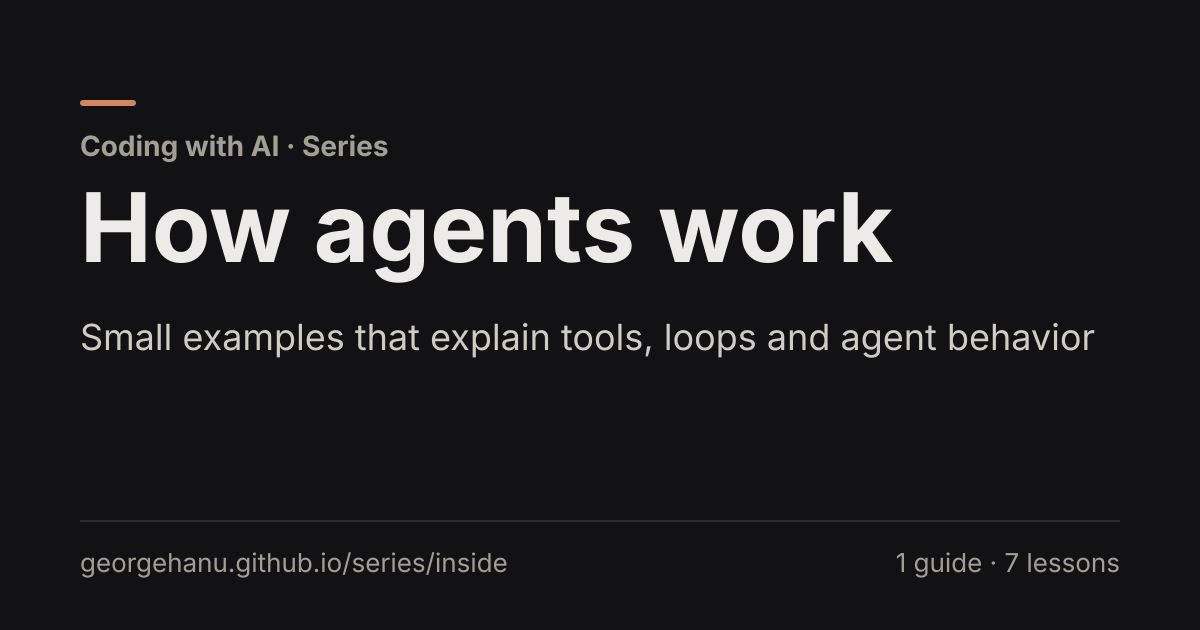
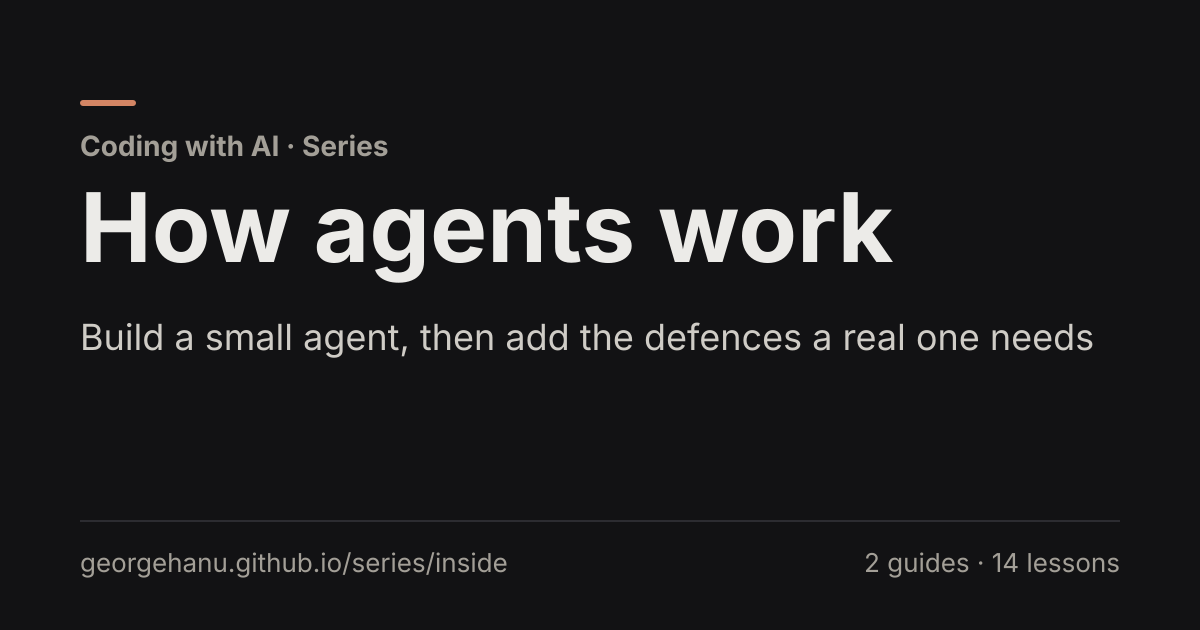
Add Harden Your Agent as Part 2 of How agents work

Changed region(s): [[0.0617, 0.5127, 0.925, 0.573], [0.7092, 0.8746, 0.8633, 0.9349]]

diff --git a/lessons/index.html b/lessons/index.html
@@ -4,13 +4,13 @@
 <meta charset="utf-8">
 <meta name="viewport" content="width=device-width, initial-scale=1">
 <title>All lessons · Coding with AI</title>
-<meta name="description" content="Every lesson from George Hanu's free guides on coding with AI, in one list: 20 lessons from 3 guides. Search, or filter by series and topic.">
+<meta name="description" content="Every lesson from George Hanu's free guides on coding with AI, in one list: 27 lessons from 4 guides. Search, or filter by series and topic.">
 <link rel="canonical" href="https://georgehanu.github.io/lessons/">
 <meta property="og:type" content="website">
 <meta property="og:site_name" content="Coding with AI">
 <meta property="og:url" content="https://georgehanu.github.io/lessons/">
 <meta property="og:title" content="All lessons · Coding with AI">
-<meta property="og:description" content="Every lesson from George Hanu's free guides on coding with AI, in one list: 20 lessons from 3 guides. Search, or filter by series and topic.">
+<meta property="og:description" content="Every lesson from George Hanu's free guides on coding with AI, in one list: 27 lessons from 4 guides. Search, or filter by series and topic.">
 <meta property="og:image" content="https://georgehanu.github.io/og.png">
 <meta property="og:image:width" content="1200">
 <meta property="og:image:height" content="630">
@@ -19,7 +19,7 @@
 <meta name="twitter:site" content="@georgehanu">
 <meta name="twitter:creator" content="@georgehanu">
 <meta name="twitter:title" content="All lessons · Coding with AI">
-<meta name="twitter:description" content="Every lesson from George Hanu's free guides on coding with AI, in one list: 20 lessons from 3 guides. Search, or filter by series and topic.">
+<meta name="twitter:description" content="Every lesson from George Hanu's free guides on coding with AI, in one list: 27 lessons from 4 guides. Search, or filter by series and topic.">
 <meta name="twitter:image" content="https://georgehanu.github.io/og.png">
 <meta name="twitter:image:alt" content="Coding with AI: Free practical guides and lessons for building software with AI. By George Hanu.">
 <link rel="icon" href="/favicon.svg" type="image/svg+xml">
@@ -75,7 +75,7 @@
         <button class="chip" type="button" data-topic="ux" aria-pressed="false">UX</button>
       </div>
     </form>
-    <p class="count" id="count" aria-live="polite">Showing 20 of 20 lessons</p>
+    <p class="count" id="count" aria-live="polite">Showing 27 of 27 lessons</p>
     <div class="lesson-groups">
     <section class="lesson-group" data-series="use" style="--accent:#0f766e" aria-labelledby="guide-beyond-it-works">
       <div class="group-head">
@@ -142,6 +142,42 @@
         <li data-topics="workflows agents" data-text="do you even need an agent? the agent loop workflows agents">
           <a href="https://georgehanu.github.io/the-agent-loop/07-do-you-need-an-agent.html">Do you even need an agent?</a>
           <span class="lesson-topics"><span class="sr-only">Topics:</span><span>Workflows</span><span>Agents</span></span>
+        </li>
+      </ul>
+    </section>
+    <section class="lesson-group" data-series="inside" style="--accent:#b91c1c" aria-labelledby="guide-harden-your-agent">
+      <div class="group-head">
+        <h2 id="guide-harden-your-agent"><a href="https://georgehanu.github.io/harden-your-agent/">Harden Your Agent</a></h2>
+        <p><a href="/series/inside/">How agents work</a> · Part 2</p>
+      </div>
+      <ul class="lesson-list">
+        <li data-topics="safety agents" data-text="where untrusted text gets in harden your agent safety agents">
+          <a href="https://georgehanu.github.io/harden-your-agent/01-where-untrusted-text-gets-in.html">Where untrusted text gets in</a>
+          <span class="lesson-topics"><span class="sr-only">Topics:</span><span>Safety</span><span>Agents</span></span>
+        </li>
+        <li data-topics="safety structured-output agents" data-text="keep the agent on task harden your agent safety structured output agents">
+          <a href="https://georgehanu.github.io/harden-your-agent/02-keep-the-agent-on-task.html">Keep the agent on task</a>
+          <span class="lesson-topics"><span class="sr-only">Topics:</span><span>Safety</span><span>Structured output</span><span>Agents</span></span>
+        </li>
+        <li data-topics="safety ux" data-text="what the screen and the fetch tool can give away harden your agent safety ux">
+          <a href="https://georgehanu.github.io/harden-your-agent/03-the-screen-and-the-fetch-tool.html">What the screen and the fetch tool can give away</a>
+          <span class="lesson-topics"><span class="sr-only">Topics:</span><span>Safety</span><span>UX</span></span>
+        </li>
+        <li data-topics="safety agents" data-text="acting as whom harden your agent safety agents">
+          <a href="https://georgehanu.github.io/harden-your-agent/04-acting-as-whom.html">Acting as whom</a>
+          <span class="lesson-topics"><span class="sr-only">Topics:</span><span>Safety</span><span>Agents</span></span>
+        </li>
+        <li data-topics="safety tool-calling" data-text="tools that must not run twice harden your agent safety tool calling">
+          <a href="https://georgehanu.github.io/harden-your-agent/05-tools-that-must-not-run-twice.html">Tools that must not run twice</a>
+          <span class="lesson-topics"><span class="sr-only">Topics:</span><span>Safety</span><span>Tool calling</span></span>
+        </li>
+        <li data-topics="safety agents" data-text="memory you can trust harden your agent safety agents">
+          <a href="https://georgehanu.github.io/harden-your-agent/06-memory-you-can-trust.html">Memory you can trust</a>
+          <span class="lesson-topics"><span class="sr-only">Topics:</span><span>Safety</span><span>Agents</span></span>
+        </li>
+        <li data-topics="evaluation safety" data-text="the hardening test suite harden your agent evaluation safety">
+          <a href="https://georgehanu.github.io/harden-your-agent/07-the-hardening-test-suite.html">The hardening test suite</a>
+          <span class="lesson-topics"><span class="sr-only">Topics:</span><span>Evaluation</span><span>Safety</span></span>
         </li>
       </ul>
     </section>

diff --git a/series/inside/index.html b/series/inside/index.html
@@ -4,24 +4,24 @@
 <meta charset="utf-8">
 <meta name="viewport" content="width=device-width, initial-scale=1">
 <title>How agents work · Coding with AI</title>
-<meta name="description" content="Open the box: the model, the tools and the loop around them. 1 free guide, 7 lessons, by George Hanu.">
+<meta name="description" content="Open the box: build the loop, then make it safe to ship. 2 free guides, 14 lessons, by George Hanu.">
 <link rel="canonical" href="https://georgehanu.github.io/series/inside/">
 <meta property="og:type" content="website">
 <meta property="og:site_name" content="Coding with AI">
 <meta property="og:url" content="https://georgehanu.github.io/series/inside/">
 <meta property="og:title" content="How agents work · Coding with AI">
-<meta property="og:description" content="Open the box: the model, the tools and the loop around them. 1 free guide, 7 lessons, by George Hanu.">
+<meta property="og:description" content="Open the box: build the loop, then make it safe to ship. 2 free guides, 14 lessons, by George Hanu.">
 <meta property="og:image" content="https://georgehanu.github.io/og/inside.png">
 <meta property="og:image:width" content="1200">
 <meta property="og:image:height" content="630">
-<meta property="og:image:alt" content="How agents work: Small examples that explain tools, loops and agent behavior. Coding with AI, by George Hanu.">
+<meta property="og:image:alt" content="How agents work: Build a small agent, then add the defences a real one needs. Coding with AI, by George Hanu.">
 <meta name="twitter:card" content="summary_large_image">
 <meta name="twitter:site" content="@georgehanu">
 <meta name="twitter:creator" content="@georgehanu">
 <meta name="twitter:title" content="How agents work · Coding with AI">
-<meta name="twitter:description" content="Open the box: the model, the tools and the loop around them. 1 free guide, 7 lessons, by George Hanu.">
+<meta name="twitter:description" content="Open the box: build the loop, then make it safe to ship. 2 free guides, 14 lessons, by George Hanu.">
 <meta name="twitter:image" content="https://georgehanu.github.io/og/inside.png">
-<meta name="twitter:image:alt" content="How agents work: Small examples that explain tools, loops and agent behavior. Coding with AI, by George Hanu.">
+<meta name="twitter:image:alt" content="How agents work: Build a small agent, then add the defences a real one needs. Coding with AI, by George Hanu.">
 <link rel="icon" href="/favicon.svg" type="image/svg+xml">
 <link rel="preconnect" href="https://fonts.googleapis.com">
 <link rel="preconnect" href="https://fonts.gstatic.com" crossorigin>
@@ -47,8 +47,8 @@
   <section class="hero">
     <p class="eyebrow">Series</p>
     <h1>How agents work</h1>
-    <p class="pitch">Open the box: the model, the tools and the loop around them.</p>
-    <p class="count">1 guide · 7 lessons · free, no signup</p>
+    <p class="pitch">Open the box: build the loop, then make it safe to ship.</p>
+    <p class="count">2 guides · 14 lessons · free, no signup</p>
   </section>
 
   <section class="guides" aria-label="Guides in this series">
@@ -71,6 +71,27 @@
       <div class="guide-links">
         <a class="btn primary" href="https://georgehanu.github.io/the-agent-loop/">Read it<span class="sr-only">: The Agent Loop</span></a>
         <a class="btn" href="https://github.com/georgehanu/the-agent-loop">Code on GitHub<span class="sr-only">: The Agent Loop</span></a>
+      </div>
+    </article>
+    <article class="guide" id="harden-your-agent" style="--accent:#b91c1c">
+      <div class="guide-head">
+        <span class="format">Lessons + web app</span>
+        <h2><span class="part">Part 2 ·</span> <a href="https://georgehanu.github.io/harden-your-agent/">Harden Your Agent</a></h2>
+        <p>Six defences a real agent needs, each added to a small TypeScript agent and proved by a test you can run.</p>
+      </div>
+      <ul class="facts"><li>TypeScript</li><li>Switchable defences</li><li>Runs without an API key</li><li>You've built an agent, or read The Agent Loop</li></ul>
+      <ol class="toc">
+        <li><a href="https://georgehanu.github.io/harden-your-agent/01-where-untrusted-text-gets-in.html">Where untrusted text gets in</a></li>
+        <li><a href="https://georgehanu.github.io/harden-your-agent/02-keep-the-agent-on-task.html">Keep the agent on task</a></li>
+        <li><a href="https://georgehanu.github.io/harden-your-agent/03-the-screen-and-the-fetch-tool.html">What the screen and the fetch tool can give away</a></li>
+        <li><a href="https://georgehanu.github.io/harden-your-agent/04-acting-as-whom.html">Acting as whom</a></li>
+        <li><a href="https://georgehanu.github.io/harden-your-agent/05-tools-that-must-not-run-twice.html">Tools that must not run twice</a></li>
+        <li><a href="https://georgehanu.github.io/harden-your-agent/06-memory-you-can-trust.html">Memory you can trust</a></li>
+        <li><a href="https://georgehanu.github.io/harden-your-agent/07-the-hardening-test-suite.html">The hardening test suite</a></li>
+      </ol>
+      <div class="guide-links">
+        <a class="btn primary" href="https://georgehanu.github.io/harden-your-agent/">Read it<span class="sr-only">: Harden Your Agent</span></a>
+        <a class="btn" href="https://github.com/georgehanu/harden-your-agent">Code on GitHub<span class="sr-only">: Harden Your Agent</span></a>
       </div>
     </article>
   </section>

diff --git a/index.html b/index.html
@@ -4,13 +4,13 @@
 <meta charset="utf-8">
 <meta name="viewport" content="width=device-width, initial-scale=1">
 <title>Coding with AI · George Hanu</title>
-<meta name="description" content="I teach developers to build software with AI, from useful scripts to app features. Small examples, explained clearly. 3 free guides, 20 lessons.">
+<meta name="description" content="I teach developers to build software with AI, from useful scripts to app features. Small examples, explained clearly. 4 free guides, 27 lessons.">
 <link rel="canonical" href="https://georgehanu.github.io/">
 <meta property="og:type" content="website">
 <meta property="og:site_name" content="Coding with AI">
 <meta property="og:url" content="https://georgehanu.github.io/">
 <meta property="og:title" content="Coding with AI · Free guides by George Hanu">
-<meta property="og:description" content="I teach developers to build software with AI, from useful scripts to app features. Small examples, explained clearly. 3 free guides, 20 lessons.">
+<meta property="og:description" content="I teach developers to build software with AI, from useful scripts to app features. Small examples, explained clearly. 4 free guides, 27 lessons.">
 <meta property="og:image" content="https://georgehanu.github.io/og.png">
 <meta property="og:image:width" content="1200">
 <meta property="og:image:height" content="630">
@@ -19,7 +19,7 @@
 <meta name="twitter:site" content="@georgehanu">
 <meta name="twitter:creator" content="@georgehanu">
 <meta name="twitter:title" content="Coding with AI · Free guides by George Hanu">
-<meta name="twitter:description" content="I teach developers to build software with AI, from useful scripts to app features. Small examples, explained clearly. 3 free guides, 20 lessons.">
+<meta name="twitter:description" content="I teach developers to build software with AI, from useful scripts to app features. Small examples, explained clearly. 4 free guides, 27 lessons.">
 <meta name="twitter:image" content="https://georgehanu.github.io/og.png">
 <meta name="twitter:image:alt" content="Coding with AI: Free practical guides and lessons for building software with AI. By George Hanu.">
 <link rel="icon" href="/favicon.svg" type="image/svg+xml">
@@ -44,7 +44,7 @@
     <p class="eyebrow">Free guides by George Hanu</p>
     <h1>Coding with AI</h1>
     <p class="pitch">I teach developers to build software with AI, from useful scripts to app features. Small examples, explained clearly.</p>
-    <p class="count">3 guides · 20 lessons · free, no signup</p>
+    <p class="count">4 guides · 27 lessons · free, no signup</p>
   </section>
 
   <section class="start" aria-labelledby="start-title">
@@ -71,7 +71,7 @@
   <section class="series-list" aria-labelledby="series-title">
     <div class="series-head">
       <h2 id="series-title">Series</h2>
-      <p>Each series reads in order. Or <a href="/lessons/">browse all 20 lessons by topic</a>.</p>
+      <p>Each series reads in order. Or <a href="/lessons/">browse all 27 lessons by topic</a>.</p>
     </div>
     <div class="series-cards">
     <article class="series-card">
@@ -91,13 +91,17 @@
     <article class="series-card">
       <div class="series-card-head">
         <h3><a href="/series/inside/">How agents work</a></h3>
-        <p>Open the box: the model, the tools and the loop around them.</p>
-        <p class="count">1 guide · 7 lessons</p>
+        <p>Open the box: build the loop, then make it safe to ship.</p>
+        <p class="count">2 guides · 14 lessons</p>
       </div>
       <ol class="guide-rows">
         <li class="guide-row" style="--accent:#c2410c">
           <div class="guide-row-top"><a href="https://georgehanu.github.io/the-agent-loop/">The Agent Loop</a><span>7 lessons · Oct 2026</span></div>
           <p>Build a mini coding agent in TypeScript, no framework. It plans, reads your code, asks before it edits, and checks its work.</p>
+        </li>
+        <li class="guide-row" style="--accent:#b91c1c">
+          <div class="guide-row-top"><a href="https://georgehanu.github.io/harden-your-agent/">Harden Your Agent</a><span>7 lessons · Oct 2026</span></div>
+          <p>Six defences a real agent needs, each added to a small TypeScript agent and proved by a test you can run.</p>
         </li>
       </ol>
       <a class="more" href="/series/inside/">Browse the series<span class="sr-only">: How agents work</span> <span aria-hidden="true">→</span></a>

diff --git a/series/use/index.html b/series/use/index.html
@@ -79,8 +79,8 @@
     <div class="paths">
       <a class="path" href="/series/inside/" style="--accent:#c2410c">
         <span class="if">How agents work</span>
-        <span class="then">Open the box: the model, the tools and the loop around them.</span>
-        <span class="go">1 guide · 7 lessons →</span>
+        <span class="then">Open the box: build the loop, then make it safe to ship.</span>
+        <span class="go">2 guides · 14 lessons →</span>
       </a>
       <a class="path" href="/series/apps/" style="--accent:#4f46e5">
         <span class="if">AI in real apps</span>

diff --git a/series/apps/index.html b/series/apps/index.html
@@ -85,8 +85,8 @@
       </a>
       <a class="path" href="/series/inside/" style="--accent:#c2410c">
         <span class="if">How agents work</span>
-        <span class="then">Open the box: the model, the tools and the loop around them.</span>
-        <span class="go">1 guide · 7 lessons →</span>
+        <span class="then">Open the box: build the loop, then make it safe to ship.</span>
+        <span class="go">2 guides · 14 lessons →</span>
       </a>
     </div>
   </section>

diff --git a/README.md b/README.md
@@ -6,6 +6,7 @@
 | --- | --- | --- |
 | [Working with coding agents](https://georgehanu.github.io/series/use/) | [Beyond "It Works"](https://georgehanu.github.io/beyond-it-works/) | A workflow for getting reviewable changes out of AI coding agents |
 | [How agents work](https://georgehanu.github.io/series/inside/) | [The Agent Loop](https://georgehanu.github.io/the-agent-loop/) | Build a mini coding agent in TypeScript, no framework |
+| | [Harden Your Agent](https://georgehanu.github.io/harden-your-agent/) | Six defences a real agent needs, each proved by a test |
 | [AI in real apps](https://georgehanu.github.io/series/apps/) | [AI Buttons](https://georgehanu.github.io/ai-buttons/) | Small AI features in a real web app, built as workflows |
 
 ## Adding a guide
